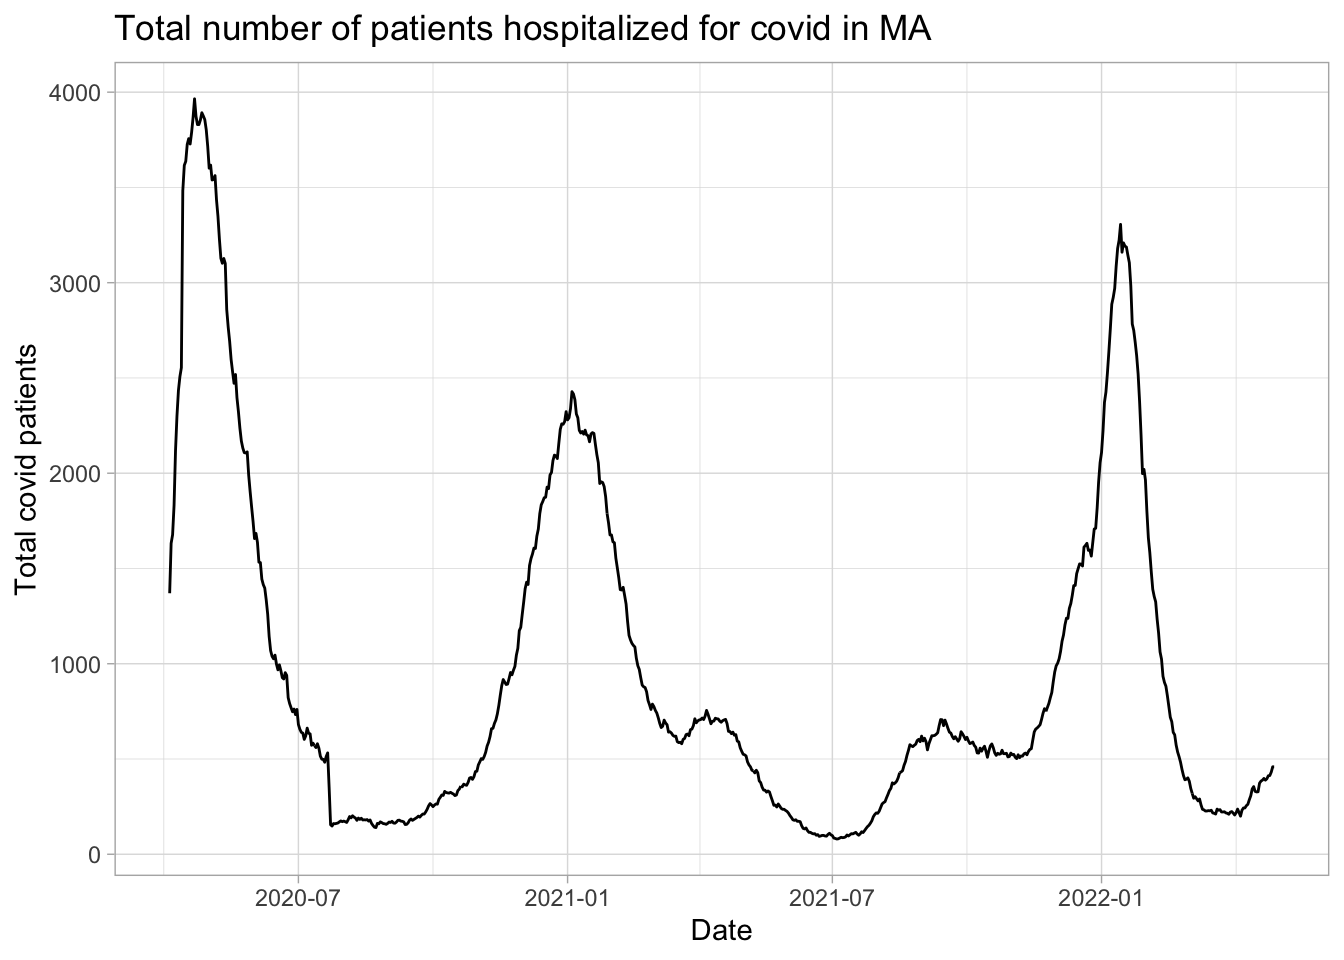
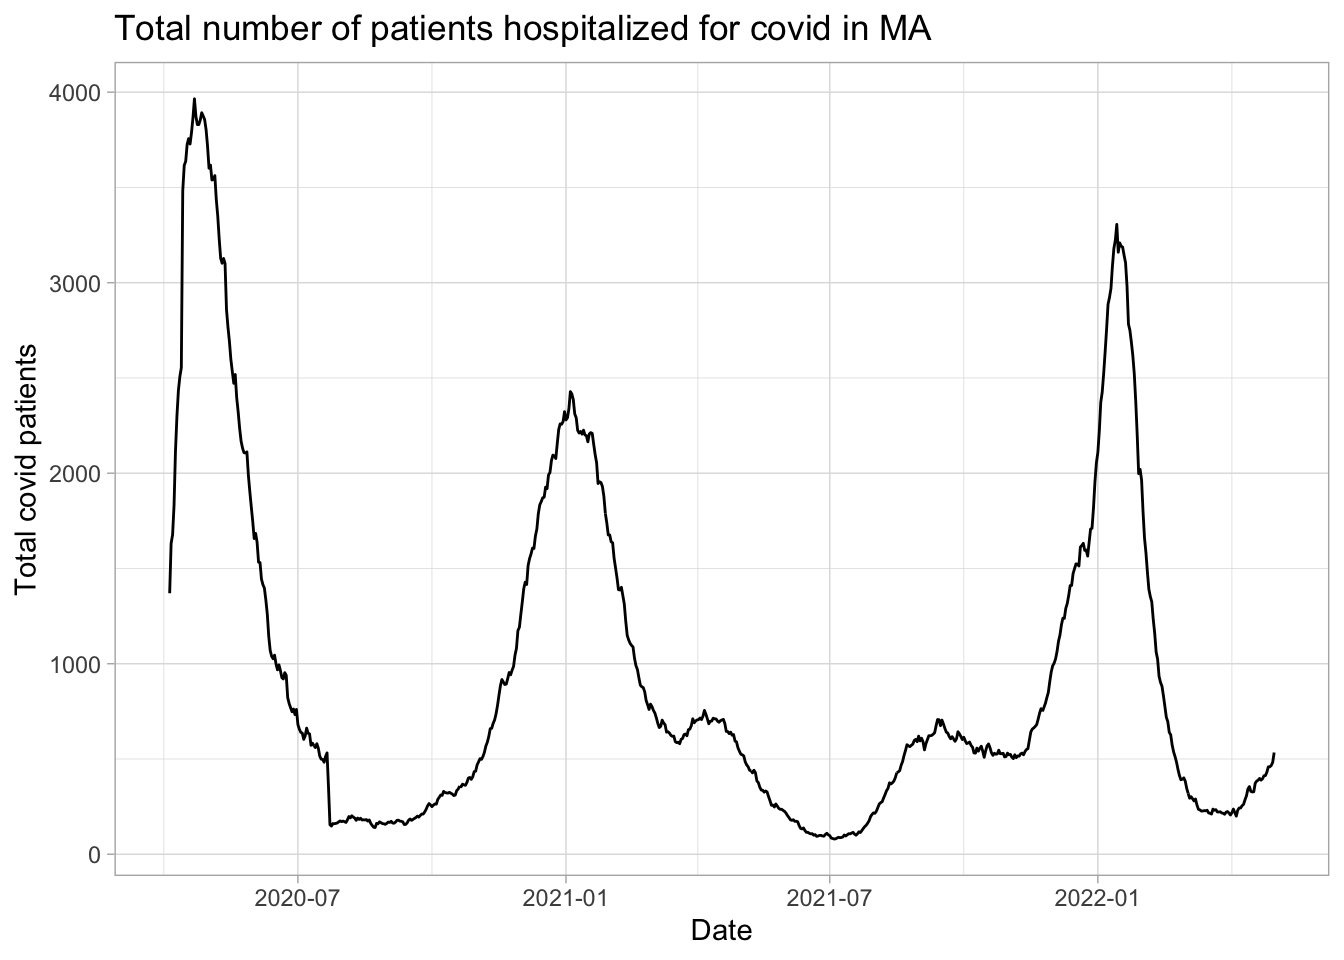
updated data

diff --git a/docs/index.html b/docs/index.html
@@ -13,7 +13,7 @@
 
 <title>Medford MA covid information</title>
 
-<script src="site_libs/header-attrs-2.11.3/header-attrs.js"></script>
+<script src="site_libs/header-attrs-2.14/header-attrs.js"></script>
 <script src="site_libs/jquery-3.6.0/jquery-3.6.0.min.js"></script>
 <meta name="viewport" content="width=device-width, initial-scale=1" />
 <link href="site_libs/bootstrap-3.3.5/css/bootstrap.min.css" rel="stylesheet" />
@@ -71,6 +71,7 @@ if (window.hljs) {
 
 
 
+
 <style type = "text/css">
 .main-container {
   max-width: 940px;
@@ -91,6 +92,9 @@ button.code-folding-btn:focus {
 }
 summary {
   display: list-item;
+}
+details > summary > p:only-child {
+  display: inline;
 }
 pre code {
   padding: 0;
@@ -243,7 +247,7 @@ $(document).ready(function () {
 <div class="navbar navbar-default  navbar-fixed-top" role="navigation">
   <div class="container">
     <div class="navbar-header">
-      <button type="button" class="navbar-toggle collapsed" data-toggle="collapse" data-target="#navbar">
+      <button type="button" class="navbar-toggle collapsed" data-toggle="collapse" data-bs-toggle="collapse" data-target="#navbar" data-bs-target="#navbar">
         <span class="icon-bar"></span>
         <span class="icon-bar"></span>
         <span class="icon-bar"></span>

diff --git a/docs/individualhospitals.html b/docs/individualhospitals.html
@@ -13,7 +13,7 @@
 
 <title>Individual Hospitals</title>
 
-<script src="site_libs/header-attrs-2.11.3/header-attrs.js"></script>
+<script src="site_libs/header-attrs-2.14/header-attrs.js"></script>
 <script src="site_libs/jquery-3.6.0/jquery-3.6.0.min.js"></script>
 <meta name="viewport" content="width=device-width, initial-scale=1" />
 <link href="site_libs/bootstrap-3.3.5/css/bootstrap.min.css" rel="stylesheet" />
@@ -71,6 +71,7 @@ if (window.hljs) {
 
 
 
+
 <style type = "text/css">
 .main-container {
   max-width: 940px;
@@ -91,6 +92,9 @@ button.code-folding-btn:focus {
 }
 summary {
   display: list-item;
+}
+details > summary > p:only-child {
+  display: inline;
 }
 pre code {
   padding: 0;
@@ -243,7 +247,7 @@ $(document).ready(function () {
 <div class="navbar navbar-default  navbar-fixed-top" role="navigation">
   <div class="container">
     <div class="navbar-header">
-      <button type="button" class="navbar-toggle collapsed" data-toggle="collapse" data-target="#navbar">
+      <button type="button" class="navbar-toggle collapsed" data-toggle="collapse" data-bs-toggle="collapse" data-target="#navbar" data-bs-target="#navbar">
         <span class="icon-bar"></span>
         <span class="icon-bar"></span>
         <span class="icon-bar"></span>

diff --git a/docs/links.html b/docs/links.html
@@ -13,7 +13,7 @@
 
 <title>Other useful links</title>
 
-<script src="site_libs/header-attrs-2.11.3/header-attrs.js"></script>
+<script src="site_libs/header-attrs-2.14/header-attrs.js"></script>
 <script src="site_libs/jquery-3.6.0/jquery-3.6.0.min.js"></script>
 <meta name="viewport" content="width=device-width, initial-scale=1" />
 <link href="site_libs/bootstrap-3.3.5/css/bootstrap.min.css" rel="stylesheet" />
@@ -71,6 +71,7 @@ if (window.hljs) {
 
 
 
+
 <style type = "text/css">
 .main-container {
   max-width: 940px;
@@ -91,6 +92,9 @@ button.code-folding-btn:focus {
 }
 summary {
   display: list-item;
+}
+details > summary > p:only-child {
+  display: inline;
 }
 pre code {
   padding: 0;
@@ -243,7 +247,7 @@ $(document).ready(function () {
 <div class="navbar navbar-default  navbar-fixed-top" role="navigation">
   <div class="container">
     <div class="navbar-header">
-      <button type="button" class="navbar-toggle collapsed" data-toggle="collapse" data-target="#navbar">
+      <button type="button" class="navbar-toggle collapsed" data-toggle="collapse" data-bs-toggle="collapse" data-target="#navbar" data-bs-target="#navbar">
         <span class="icon-bar"></span>
         <span class="icon-bar"></span>
         <span class="icon-bar"></span>

diff --git a/docs/comparisons.html b/docs/comparisons.html
@@ -13,7 +13,7 @@
 
 <title>Comparisons</title>
 
-<script src="site_libs/header-attrs-2.11.3/header-attrs.js"></script>
+<script src="site_libs/header-attrs-2.14/header-attrs.js"></script>
 <script src="site_libs/jquery-3.6.0/jquery-3.6.0.min.js"></script>
 <meta name="viewport" content="width=device-width, initial-scale=1" />
 <link href="site_libs/bootstrap-3.3.5/css/bootstrap.min.css" rel="stylesheet" />
@@ -71,6 +71,7 @@ if (window.hljs) {
 
 
 
+
 <style type = "text/css">
 .main-container {
   max-width: 940px;
@@ -91,6 +92,9 @@ button.code-folding-btn:focus {
 }
 summary {
   display: list-item;
+}
+details > summary > p:only-child {
+  display: inline;
 }
 pre code {
   padding: 0;
@@ -243,7 +247,7 @@ $(document).ready(function () {
 <div class="navbar navbar-default  navbar-fixed-top" role="navigation">
   <div class="container">
     <div class="navbar-header">
-      <button type="button" class="navbar-toggle collapsed" data-toggle="collapse" data-target="#navbar">
+      <button type="button" class="navbar-toggle collapsed" data-toggle="collapse" data-bs-toggle="collapse" data-target="#navbar" data-bs-target="#navbar">
         <span class="icon-bar"></span>
         <span class="icon-bar"></span>
         <span class="icon-bar"></span>

diff --git a/docs/about.html b/docs/about.html
@@ -13,7 +13,7 @@
 
 <title>About</title>
 
-<script src="site_libs/header-attrs-2.11.3/header-attrs.js"></script>
+<script src="site_libs/header-attrs-2.14/header-attrs.js"></script>
 <script src="site_libs/jquery-3.6.0/jquery-3.6.0.min.js"></script>
 <meta name="viewport" content="width=device-width, initial-scale=1" />
 <link href="site_libs/bootstrap-3.3.5/css/bootstrap.min.css" rel="stylesheet" />
@@ -71,6 +71,7 @@ if (window.hljs) {
 
 
 
+
 <style type = "text/css">
 .main-container {
   max-width: 940px;
@@ -91,6 +92,9 @@ button.code-folding-btn:focus {
 }
 summary {
   display: list-item;
+}
+details > summary > p:only-child {
+  display: inline;
 }
 pre code {
   padding: 0;
@@ -243,7 +247,7 @@ $(document).ready(function () {
 <div class="navbar navbar-default  navbar-fixed-top" role="navigation">
   <div class="container">
     <div class="navbar-header">
-      <button type="button" class="navbar-toggle collapsed" data-toggle="collapse" data-target="#navbar">
+      <button type="button" class="navbar-toggle collapsed" data-toggle="collapse" data-bs-toggle="collapse" data-target="#navbar" data-bs-target="#navbar">
         <span class="icon-bar"></span>
         <span class="icon-bar"></span>
         <span class="icon-bar"></span>

diff --git a/docs/site_libs/navigation-1.1/codefolding.js b/docs/site_libs/navigation-1.1/codefolding.js
@@ -19,6 +19,8 @@ window.initializeCodeFolding = function(show) {
   // select all R code blocks
   var rCodeBlocks = $('pre.r, pre.python, pre.bash, pre.sql, pre.cpp, pre.stan, pre.julia, pre.foldable');
   rCodeBlocks.each(function() {
+    // skip if the block has fold-none class
+    if ($(this).hasClass('fold-none')) return;
 
     // create a collapsable div to wrap the code in
     var div = $('<div class="collapse r-code-collapse"></div>');
@@ -34,7 +36,9 @@ window.initializeCodeFolding = function(show) {
     showCodeButton.append(showCodeText);
     showCodeButton
         .attr('data-toggle', 'collapse')
+        .attr('data-bs-toggle', 'collapse') // BS5
         .attr('data-target', '#' + id)
+        .attr('data-bs-target', '#' + id)   // BS5
         .attr('aria-expanded', showThis)
         .attr('aria-controls', id);
 

diff --git a/docs/site_libs/navigation-1.1/codefolding-lua.css b/docs/site_libs/navigation-1.1/codefolding-lua.css
@@ -1,0 +1,9 @@
+detaiks.chunk-details > summary.chunk-summary {
+  text-align: right;
+}
+details.chunk-details[open] > summary.chunk-summary::after {
+  content: "Hide";
+}
+details.chunk-details[open] > summary.chunk-summary > span.chunk-summary-text {
+  display: none;
+}
